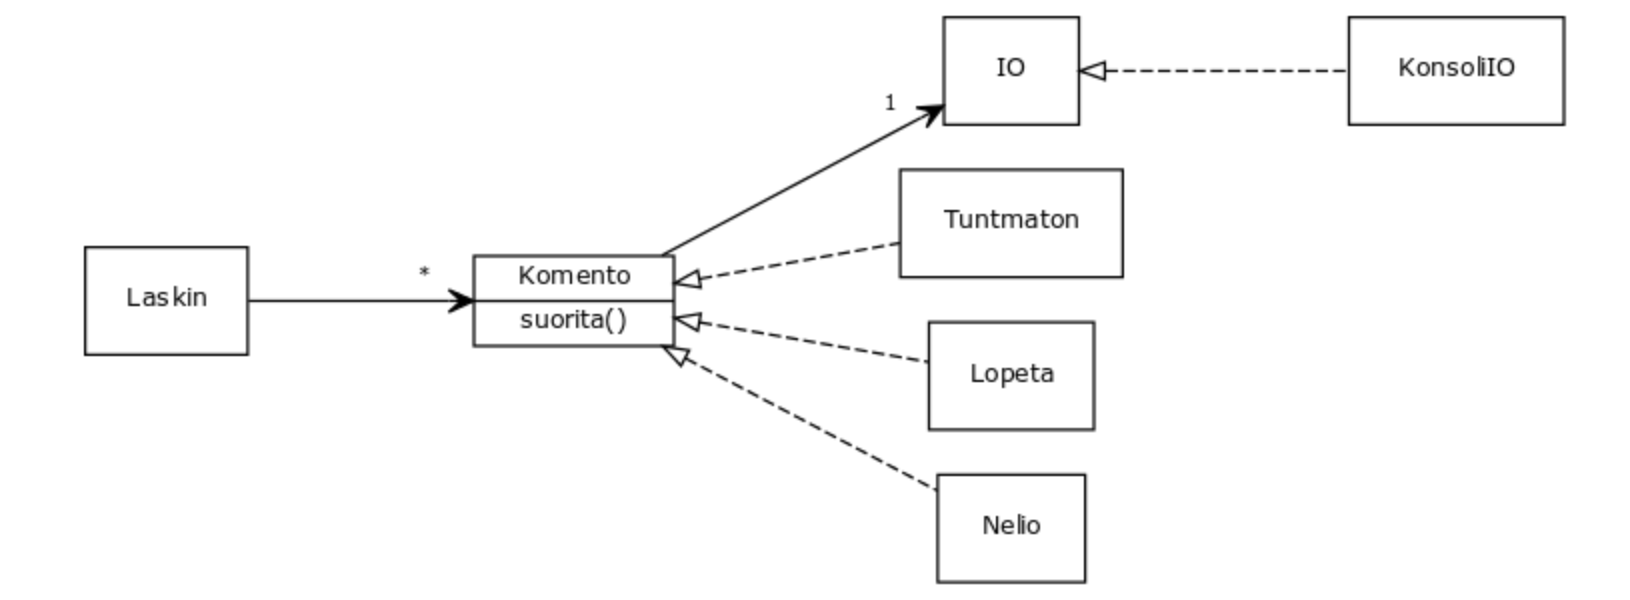
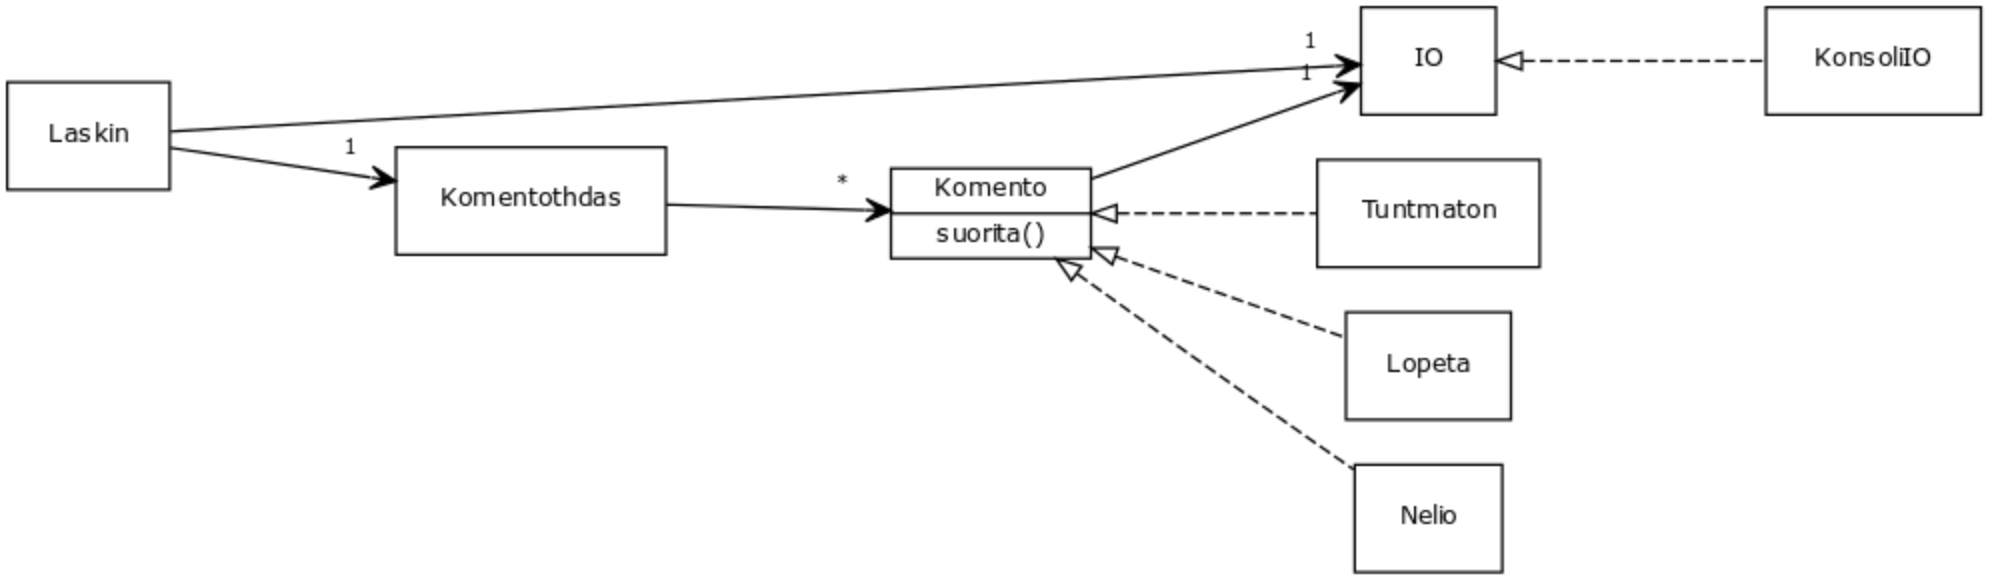
fix

diff --git a/web/oliosuunnittelu.md b/web/oliosuunnittelu.md
@@ -853,7 +853,6 @@ Ohjelman rakenne tässä vaiheessa
 ![](https://github.com/mluukkai/ohjelmistotuotanto2017/raw/master/images/os-5.png)
 
 
-
 ### command
 
 Eristämme siis jokaiseen erilliseen laskuoperaatioon liittyvä toiminnallisuuden omaksi oliokseen command-suunnittelumallin ideaa nodattaen, eli siten, että kaikki operaatiot toteuttavat yksinkertaisen rajapinnan, jolla on ainoastaan metodi public <code>void suorita()</code>
@@ -945,6 +944,10 @@ public class Laskin {
 ```
 
 Ohjelmasta on näinollen saatu laajennettavuudeltaan varsin joustava. Uusia operaatioita on helppo lisätä ja lisäys ei aiheuta muutoksia moneen kohtaan koodia. Laskin-luokallahan ei ole riippuvuuksia muualle kuin rajapintoihin IO ja Komento ja luokkaan Komentotehdas.
+
+![](https://github.com/mluukkai/ohjelmistotuotanto2017/raw/master/images/os-5.png)
+
+
 
 ### template method
 
